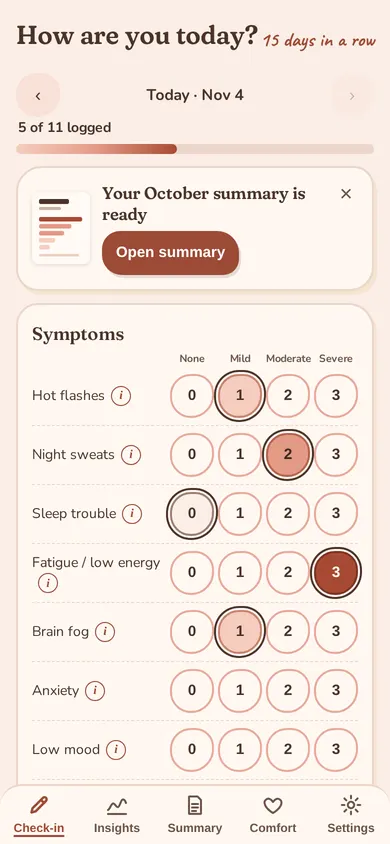
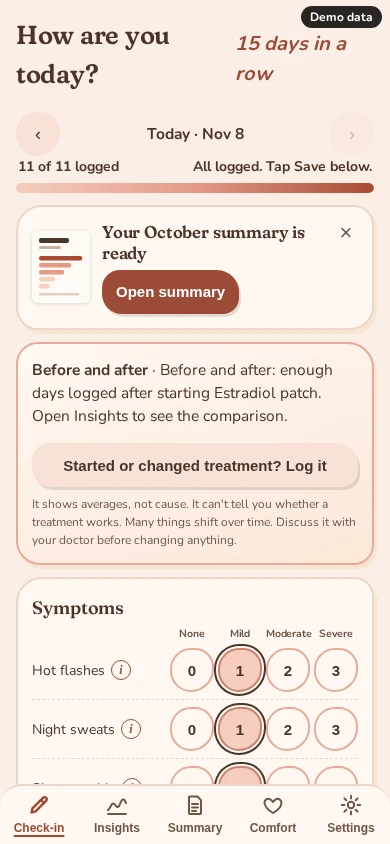
Tidy mobile eyebrow and refresh demo imagery without script fonts

diff --git a/sw.js b/sw.js
@@ -1,9 +1,9 @@
-// Root service worker, retired in peri-v32 (Nov 2026). The app moved to /app/ (its own SW, scope /app/).
+// Root service worker, retired in peri-v33 (Nov 2026). The app moved to /app/ (its own SW, scope /app/).
 // Older installs registered this file with scope "/" and would keep serving the old app over the landing page.
 // This version: takes over at once, deletes old root app caches, unregisters itself, and reloads open windows
 // so they get the network copy (landing page, which sends home-screen launches on to /app/).
 // It never touches localStorage, so her entries (key periTracker.v1, same origin) are untouched.
-const KEEP=['peri-v32'];// the /app/ SW's cache; nights-*/strong-* are not peri-* so untouched
+const KEEP=['peri-v33'];// the /app/ SW's cache; nights-*/strong-* are not peri-* so untouched
 self.addEventListener('install',()=>self.skipWaiting());
 self.addEventListener('activate',e=>{e.waitUntil((async()=>{
  const k=await caches.keys();await Promise.all(k.filter(x=>x.startsWith('peri-')&&!KEEP.includes(x)).map(x=>caches.delete(x)));

diff --git a/index.html b/index.html
@@ -33,7 +33,7 @@ header.top{gap:10px;display:flex;align-items:center;justify-content:space-betwee
 .btn.sm{min-height:44px;padding:0 18px;font-size:16px}
 .note{font-size:16px;color:var(--mute);margin-top:10px}
 section{padding:56px 0}section.alt{background:var(--card);border-block:1px solid var(--line)}
-.accent{font-family:Nunito,Arial,sans-serif;font-style:italic;color:var(--terra);font-size:26px;margin:0 0 4px;display:block}
+.accent{font-family:Nunito,Arial,sans-serif;font-style:italic;color:var(--terra);font-size:clamp(13px,4.2vw,18px);line-height:1.25;margin:0 0 8px;display:block}
 .hero{display:grid;gap:36px;align-items:center;padding:24px 0 48px}
 @media(min-width:860px){.hero{grid-template-columns:1.1fr .9fr}.cols{display:grid;grid-template-columns:1fr 1fr;gap:48px;align-items:center}.three{display:grid;grid-template-columns:repeat(3,1fr);gap:24px}}
 .phone{margin:0 auto;max-width:300px;position:relative}

diff --git a/app/sw.js b/app/sw.js
@@ -1,4 +1,4 @@
-const C='peri-v32',A=['./','index.html','manifest.webmanifest','icon-192.png','icon-512.png','icon-512-maskable.png','icon-180.png','../privacy.html','../health-data.html','../terms.html','../accessibility.html','fonts/fraunces-latin.woff2','fonts/nunito-latin.woff2'];
+const C='peri-v33',A=['./','index.html','manifest.webmanifest','icon-192.png','icon-512.png','icon-512-maskable.png','icon-180.png','../privacy.html','../health-data.html','../terms.html','../accessibility.html','fonts/fraunces-latin.woff2','fonts/nunito-latin.woff2'];
 self.addEventListener('install',e=>{e.waitUntil(caches.open(C).then(c=>c.addAll(A)))});
 self.addEventListener('message',e=>{if(e.data&&e.data.type==='SKIP_WAITING')self.skipWaiting()});
 self.addEventListener('activate',e=>{e.waitUntil(caches.keys().then(k=>Promise.all(k.filter(x=>x.startsWith('peri-')&&x!==C).map(x=>caches.delete(x)))));self.clients.claim()});

diff --git a/tests/android_header_test.py b/tests/android_header_test.py
@@ -17,6 +17,8 @@ try:
    for sel in ['header .logo','header .btn']:
     assert page.locator(sel).evaluate("e=>getComputedStyle(e).whiteSpace==='nowrap'"),f'{sel} wraps at {width}'
    assert page.evaluate("document.querySelector('header .logo').getBoundingClientRect().right+7<=document.querySelector('header .btn').getBoundingClientRect().left"),f'header collision at {width}'
+   if width>=360:
+    assert page.locator('.accent').first.evaluate("e=>e.getBoundingClientRect().height<=parseFloat(getComputedStyle(e).lineHeight)+1"),f'eyebrow wraps at {width}'
    assert not any('caveat' in u.lower() for u in requests)
    page.close()
   b.close()
